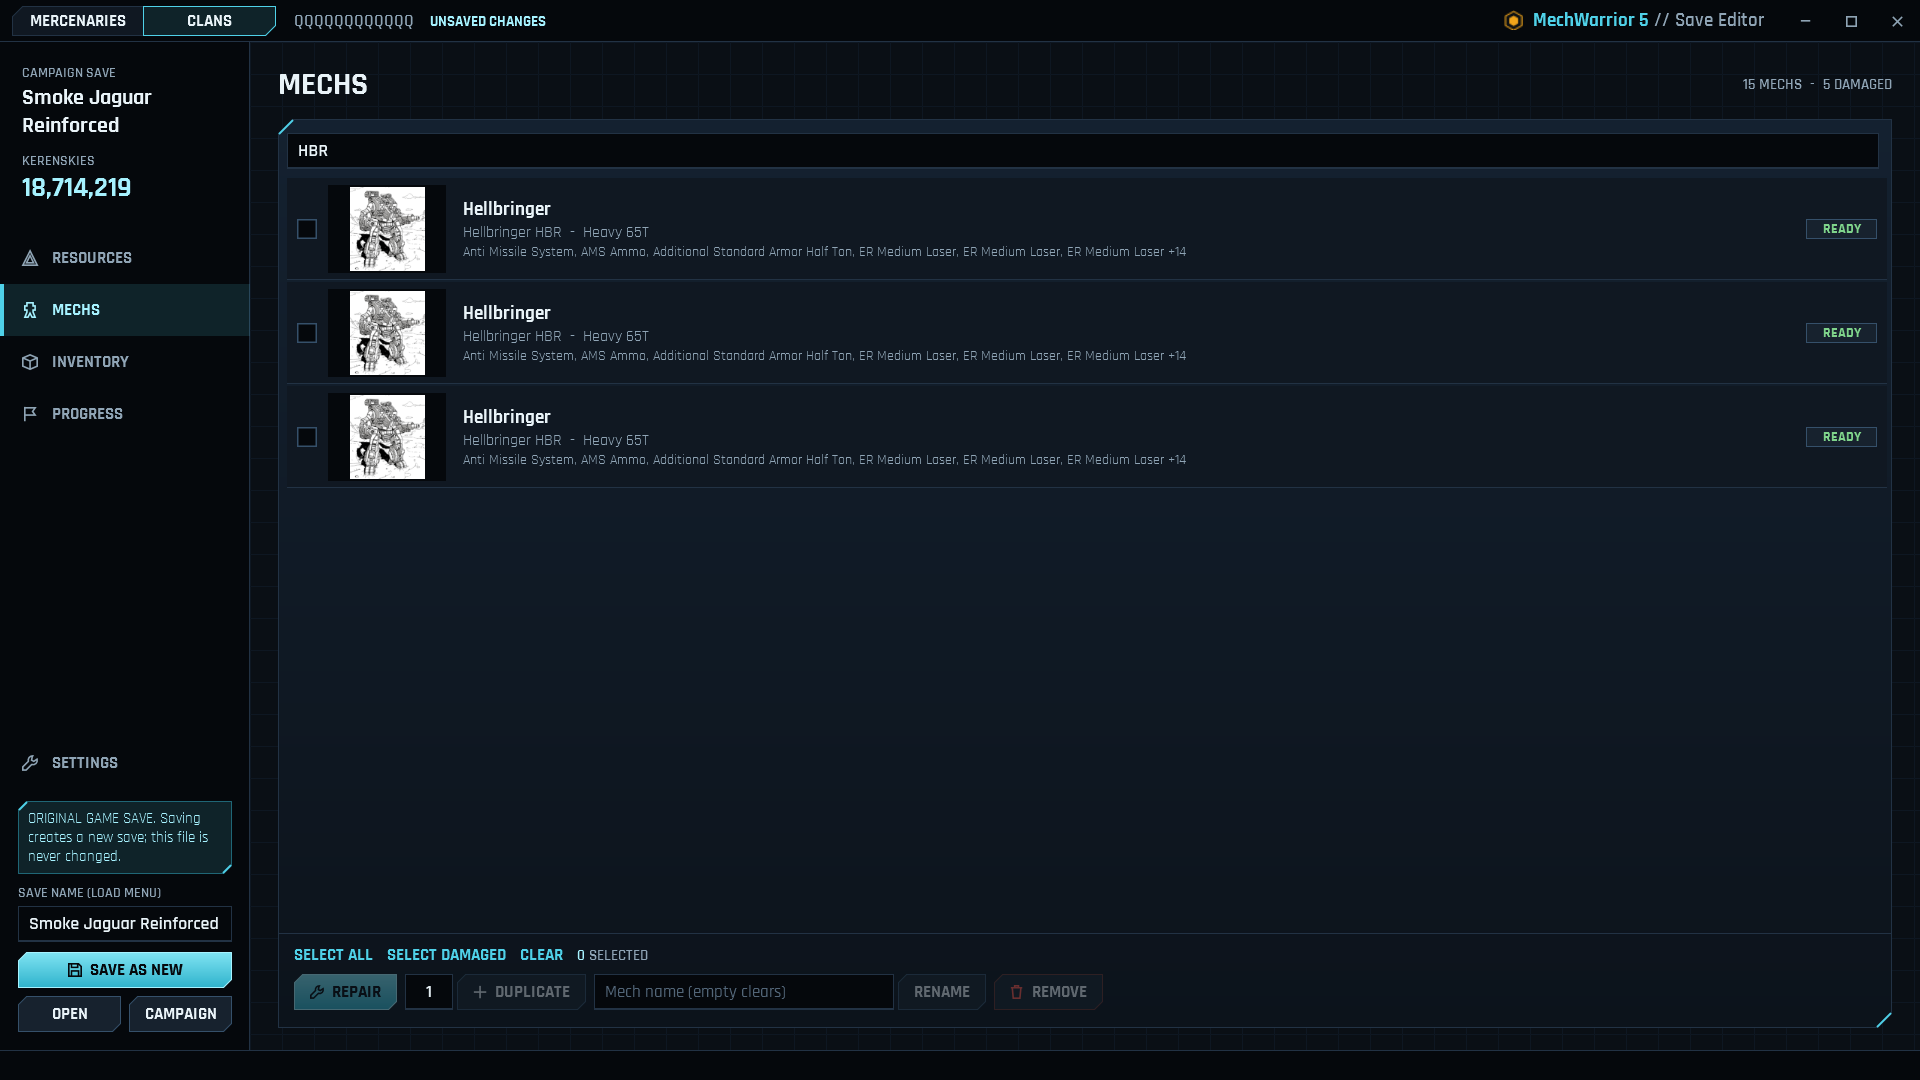
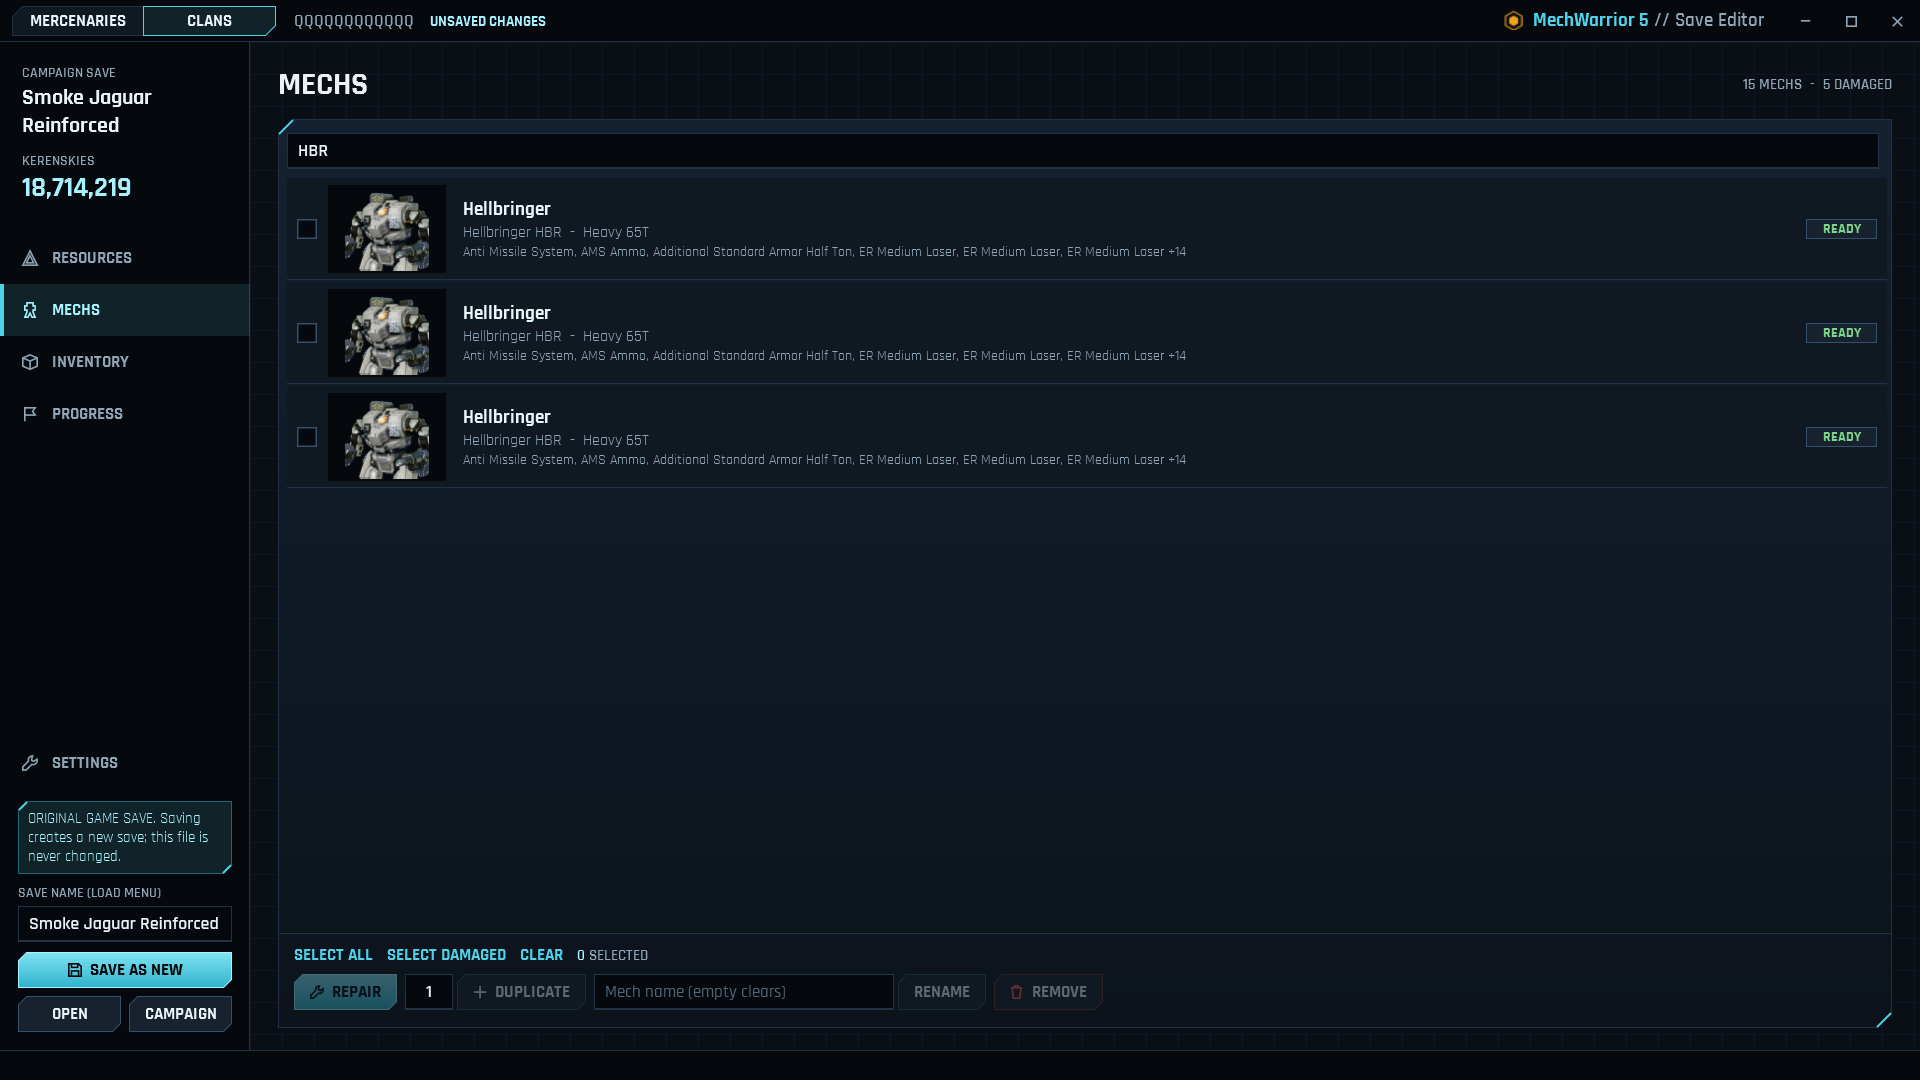
Every screenshot retaken from the current app (26 updated, plus mercs-11-settings-addons for the add-on packs and the compatibility report): game-file 'Mech art in both games (Clans' own art via the Oodle search, as the app does at startup), career paths and Arena fame on the Company page; the headl
Claude-Session: https://claude.ai/code/session_01CbRxCLoae5mBbNMw1HM96s

Changed region(s): [[0.1562, 0.1528, 0.25, 0.4583]]

diff --git a/tests/MechWarrior5.SaveEditor.Headless.Tests/UiHeadlessTests.cs b/tests/MechWarrior5.SaveEditor.Headless.Tests/UiHeadlessTests.cs
@@ -176,7 +176,9 @@ public partial class UiHeadlessTests
         var dialogs = new FakeDialogs();
         var catalog = MechCatalog.LoadBuiltIn();
         // Like the app: pictures come from the installed game, so the rendered pages show them.
-        Shared.Wpf.Behaviors.MechArt.Service = new GameArtSource(catalog);
+        var art = new GameArtSource(catalog);
+        _ = art.StartClans(null);
+        Shared.Wpf.Behaviors.MechArt.Service = art;
         var mercs = new MainViewModel(catalog, ItemCatalog.LoadBuiltIn(), PilotCatalog.LoadBuiltIn(), dialogs, settings, windows ?? new EditorWindows());
         var shell = new ShellViewModel(mercs, new ClansMainViewModel(dialogs, settings), settings);
         var window = new App.MainWindow { DataContext = shell, Left = -4000, Top = 0, Width = 1440, Height = 900, ShowActivated = false };

diff --git a/tests/MechWarrior5.SaveEditor.Headless.Tests/Screenshots.cs b/tests/MechWarrior5.SaveEditor.Headless.Tests/Screenshots.cs
@@ -72,6 +72,13 @@ public partial class UiHeadlessTests
         Shot(window, assets, "mercs-09-pilots");
         shell.Mercs.NavigateCommand.Execute(MercsPage.Factions);
         Shot(window, assets, "mercs-10-factions");
+
+        // Settings: add-on packs and the compatibility report (taller, so both panels show).
+        shell.Mercs.NavigateCommand.Execute(MercsPage.Settings);
+        window.Height = 2200;
+        Settle();
+        Shot(window, assets, "mercs-11-settings-addons");
+        Size(window);
         window.Close();
 
         // Clans
